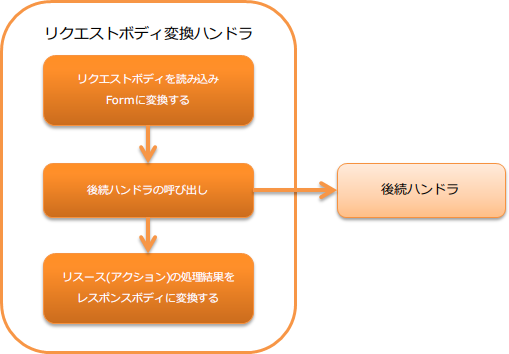
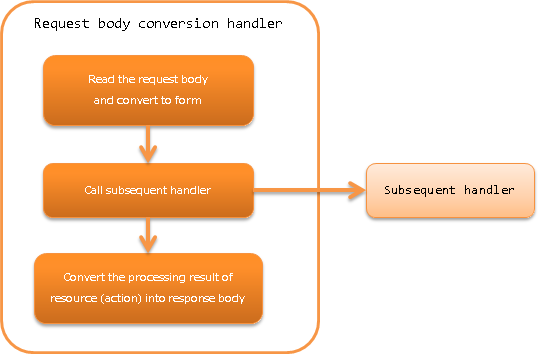
リクエストボディ変換ハンドラページを英語化

diff --git a/en/application_framework/application_framework/handlers/rest/body_convert_handler.rst b/en/application_framework/application_framework/handlers/rest/body_convert_handler.rst
@@ -1,34 +1,34 @@
 .. _body_convert_handler:
 
-リクエストボディ変換ハンドラ
+Request Body Conversion Handler
 ==================================================
-.. contents:: 目次
+.. contents:: Table of contents
   :depth: 3
   :local:
 
-本ハンドラでは、リクエストボディとレスポンスボディの変換処理を行う。
+This handler performs conversion process of request body and response body.
 
-変換時に使用するフォーマットは、リクエストを処理するリソース(アクション)クラスのメソッドに設定された
-:java:extdoc:`Consumes <javax.ws.rs.Consumes>` 及び :java:extdoc:`Produces <javax.ws.rs.Produces>` アノテーションで指定する。
+The format used for conversion is specified in :java:extdoc:`Consumes <javax.ws.rs.Consumes>` and :java:extdoc:`Produces <javax.ws.rs.Produces>` annotations
+which are configured in the method of resource (action) class that processes the request.
 
-本ハンドラでは、以下の処理を行う。
+This handler performs the following process.
 
-* リクエストボディをリソース(アクション)クラスで受け付けるFormに変換する。
-  詳細は、:ref:`body_convert_handler-convert_request` を参照。
+* Converts the request body to a form that can be accepted by the resource (action) class.
+  For details, see :ref:`body_convert_handler-convert_request`.
 
-* リソース(アクション)クラスの処理結果をレスポンスボディに変換する。
-  詳細は、:ref:`body_convert_handler-convert_response` を参照。
+* Converts the processing result of the resource (action) class to response body.
+  For details, see :ref:`body_convert_handler-convert_response`.
 
-処理の流れは以下のとおり。
+The process flow is as follows.
 
 .. image:: ../images/BodyConvertHandler/flow.png
   :scale: 75
-  
-ハンドラクラス名
+
+Handler class name
 --------------------------------------------------
 * :java:extdoc:`nablarch.fw.jaxrs.BodyConvertHandler`
 
-モジュール一覧
+Module list
 --------------------------------------------------
 .. code-block:: xml
 
@@ -37,51 +37,51 @@
     <artifactId>nablarch-fw-jaxrs</artifactId>
   </dependency>
 
-制約
+Constraints
 ------------------------------
-本ハンドラは :ref:`router_adaptor` よりも後ろに設定すること
-  このハンドラは、リソース(アクション)クラスのメソッドに設定された、アノテーションの情報を元に
-  リクエスト及びレスポンスの変換処理を行う。
-  このため、ディスパッチ先を特定する :ref:`router_adaptor` よりも後ろに設定する必要がある。
+Configure this handler after the :ref:`router_adaptor`
+  This handler converts the request and response
+  based on the annotation information configured in the method of the resource (action) class.
+  Therefore, this handler should be configured after the :ref:`router_adaptor`, which specifies the dispatch destination.
 
-変換処理を行うコンバータを設定する
---------------------------------------------------
-このハンドラでは、 :java:extdoc:`bodyConverters <nablarch.fw.jaxrs.BodyConvertHandler.setBodyConverters(java.util.List)>` プロパティに設定された、
-:java:extdoc:`BodyConverter <nablarch.fw.jaxrs.BodyConverter>` の実装クラスを使用してリクエスト及びレスポンスの変換処理を行う。
-:java:extdoc:`bodyConverters <nablarch.fw.jaxrs.BodyConvertHandler.setBodyConverters(java.util.List)>` プロパティには、
-プロジェクトで使用するMIMEに対応した、 :java:extdoc:`BodyConverter <nablarch.fw.jaxrs.BodyConverter>` を設定すること。
+Configure the converter that performs the conversion process
+---------------------------------------------------------------------------------
+This handler performs the conversion if request and response using the implementation class :java:extdoc:`BodyConverter <nablarch.fw.jaxrs.BodyConverter>`
+that is configured in the :java:extdoc:`bodyConverters <nablarch.fw.jaxrs.BodyConvertHandler.setBodyConverters(java.util.List)>` property.
+:java:extdoc:`BodyConverter <nablarch.fw.jaxrs.BodyConverter>` corresponding to the MIME used in the project
+should be configured in the :java:extdoc:`bodyConverters <nablarch.fw.jaxrs.BodyConvertHandler.setBodyConverters(java.util.List)>` property.
 
-以下に例を示す。
+An example is shown below.
 
 .. code-block:: xml
 
   <component class="nablarch.fw.jaxrs.BodyConvertHandler">
     <property name="bodyConverters">
       <list>
-        <!-- application/xmlに対応したリクエスト・レスポンスのコンバータ -->
+        <!-- Request and response converter for application/xml -->
         <component class="nablarch.fw.jaxrs.JaxbBodyConverter" />
-        <!-- application/x-www-form-urlencodedに対応したリクエスト・レスポンスのコンバータ -->
+        <!-- Request and response converter for application/x-www-form-urlencoded -->
         <component class="nablarch.fw.jaxrs.FormUrlEncodedConverter" />
       </list>
     </property>
   </component>
 
 .. tip::
-  :java:extdoc:`bodyConverters <nablarch.fw.jaxrs.BodyConvertHandler.setBodyConverters(java.util.List)>` プロパティに設定されたコンバータで、
-  変換出来ないMIMEが使用された場合、サポートしていないメディアタイプであることを示すステータスコード(``415``)を返却する。
+  If the MIME used cannot be converted by the converter configured in the :java:extdoc:`bodyConverters <nablarch.fw.jaxrs.BodyConvertHandler.setBodyConverters(java.util.List)>` property,
+  a status code (``415``) indicating that it is an unsupported media type　is returned.
 
 .. _body_convert_handler-convert_request:
 
-リクエストボディをFormに変換する
+Convert request body to form
 --------------------------------------------------
-リクエストボディの変換処理で使用するフォーマットは、リクエストを処理するメソッドに設定された :java:extdoc:`Consumes <javax.ws.rs.Consumes>` により決まる。
-もし、 :java:extdoc:`Consumes <javax.ws.rs.Consumes>` に設定されたMIMEと異なるMIMEがリクエストヘッダーのContent-Typeに設定されていた場合は、
-サポートしていないメディアタイプであることを示すステータスコード(``415``)を返却する。
+The format used for the request body conversion is determined by :java:extdoc:`Consumes <javax.ws.rs.Consumes>` configured in the method that processes the request.
+If MIME different from the MIME configured in :java:extdoc:`Consumes <javax.ws.rs.Consumes>` is configured in the Content-Type of the request header,
+a status code (``415``) indicating that it is an unsupported media type is returned.
 
-リソース(アクション)のメソッドの実装例を以下に示す。
+An implementation example of the resource (action) method is shown below.
 
-この例では、 ``MediaType.APPLICATION_JSON`` が示す ``application/json`` に対応した
-:java:extdoc:`BodyConverter <nablarch.fw.jaxrs.BodyConverter>` でリクエストボディが ``Person`` に変換される。
+In this example, the request body is being converted to ``Person`` by :java:extdoc:`BodyConverter <nablarch.fw.jaxrs.BodyConverter>`
+corresponding to the ``application/json`` indicated by ``MediaType.APPLICATION_JSON``.
 
 .. code-block:: java
 
@@ -94,14 +94,14 @@
 
 .. _body_convert_handler-convert_response:
 
-リソース(アクション)の処理結果をレスポンスボディに変換する
+Convert the processing result of resource (action) to response body
 ----------------------------------------------------------------------
-レスポンスボディへの変換処理で使用するフォーマットは、リクエストを処理したメソッドに設定された :java:extdoc:`Produces <javax.ws.rs.Produces>` により決まる。
+The format used for the response body conversion is determined by :java:extdoc:`Produces <javax.ws.rs.Produces>` configured in the method that processes the request.
 
-リソース(アクション)のメソッドの実装例を以下に示す。
+An implementation example of the resource (action) method is shown below.
 
-この例では、 ``MediaType.APPLICATION_JSON`` が示す ``application/json`` に対応した
-:java:extdoc:`BodyConverter <nablarch.fw.jaxrs.BodyConverter>` でリクエストボディが ``Person`` に変換される。
+In this example, the request body is being converted to ``Person`` by :java:extdoc:`BodyConverter <nablarch.fw.jaxrs.BodyConverter>`
+corresponding to the ``application/json`` indicated by ``MediaType.APPLICATION_JSON``.
 
 .. code-block:: java
 
